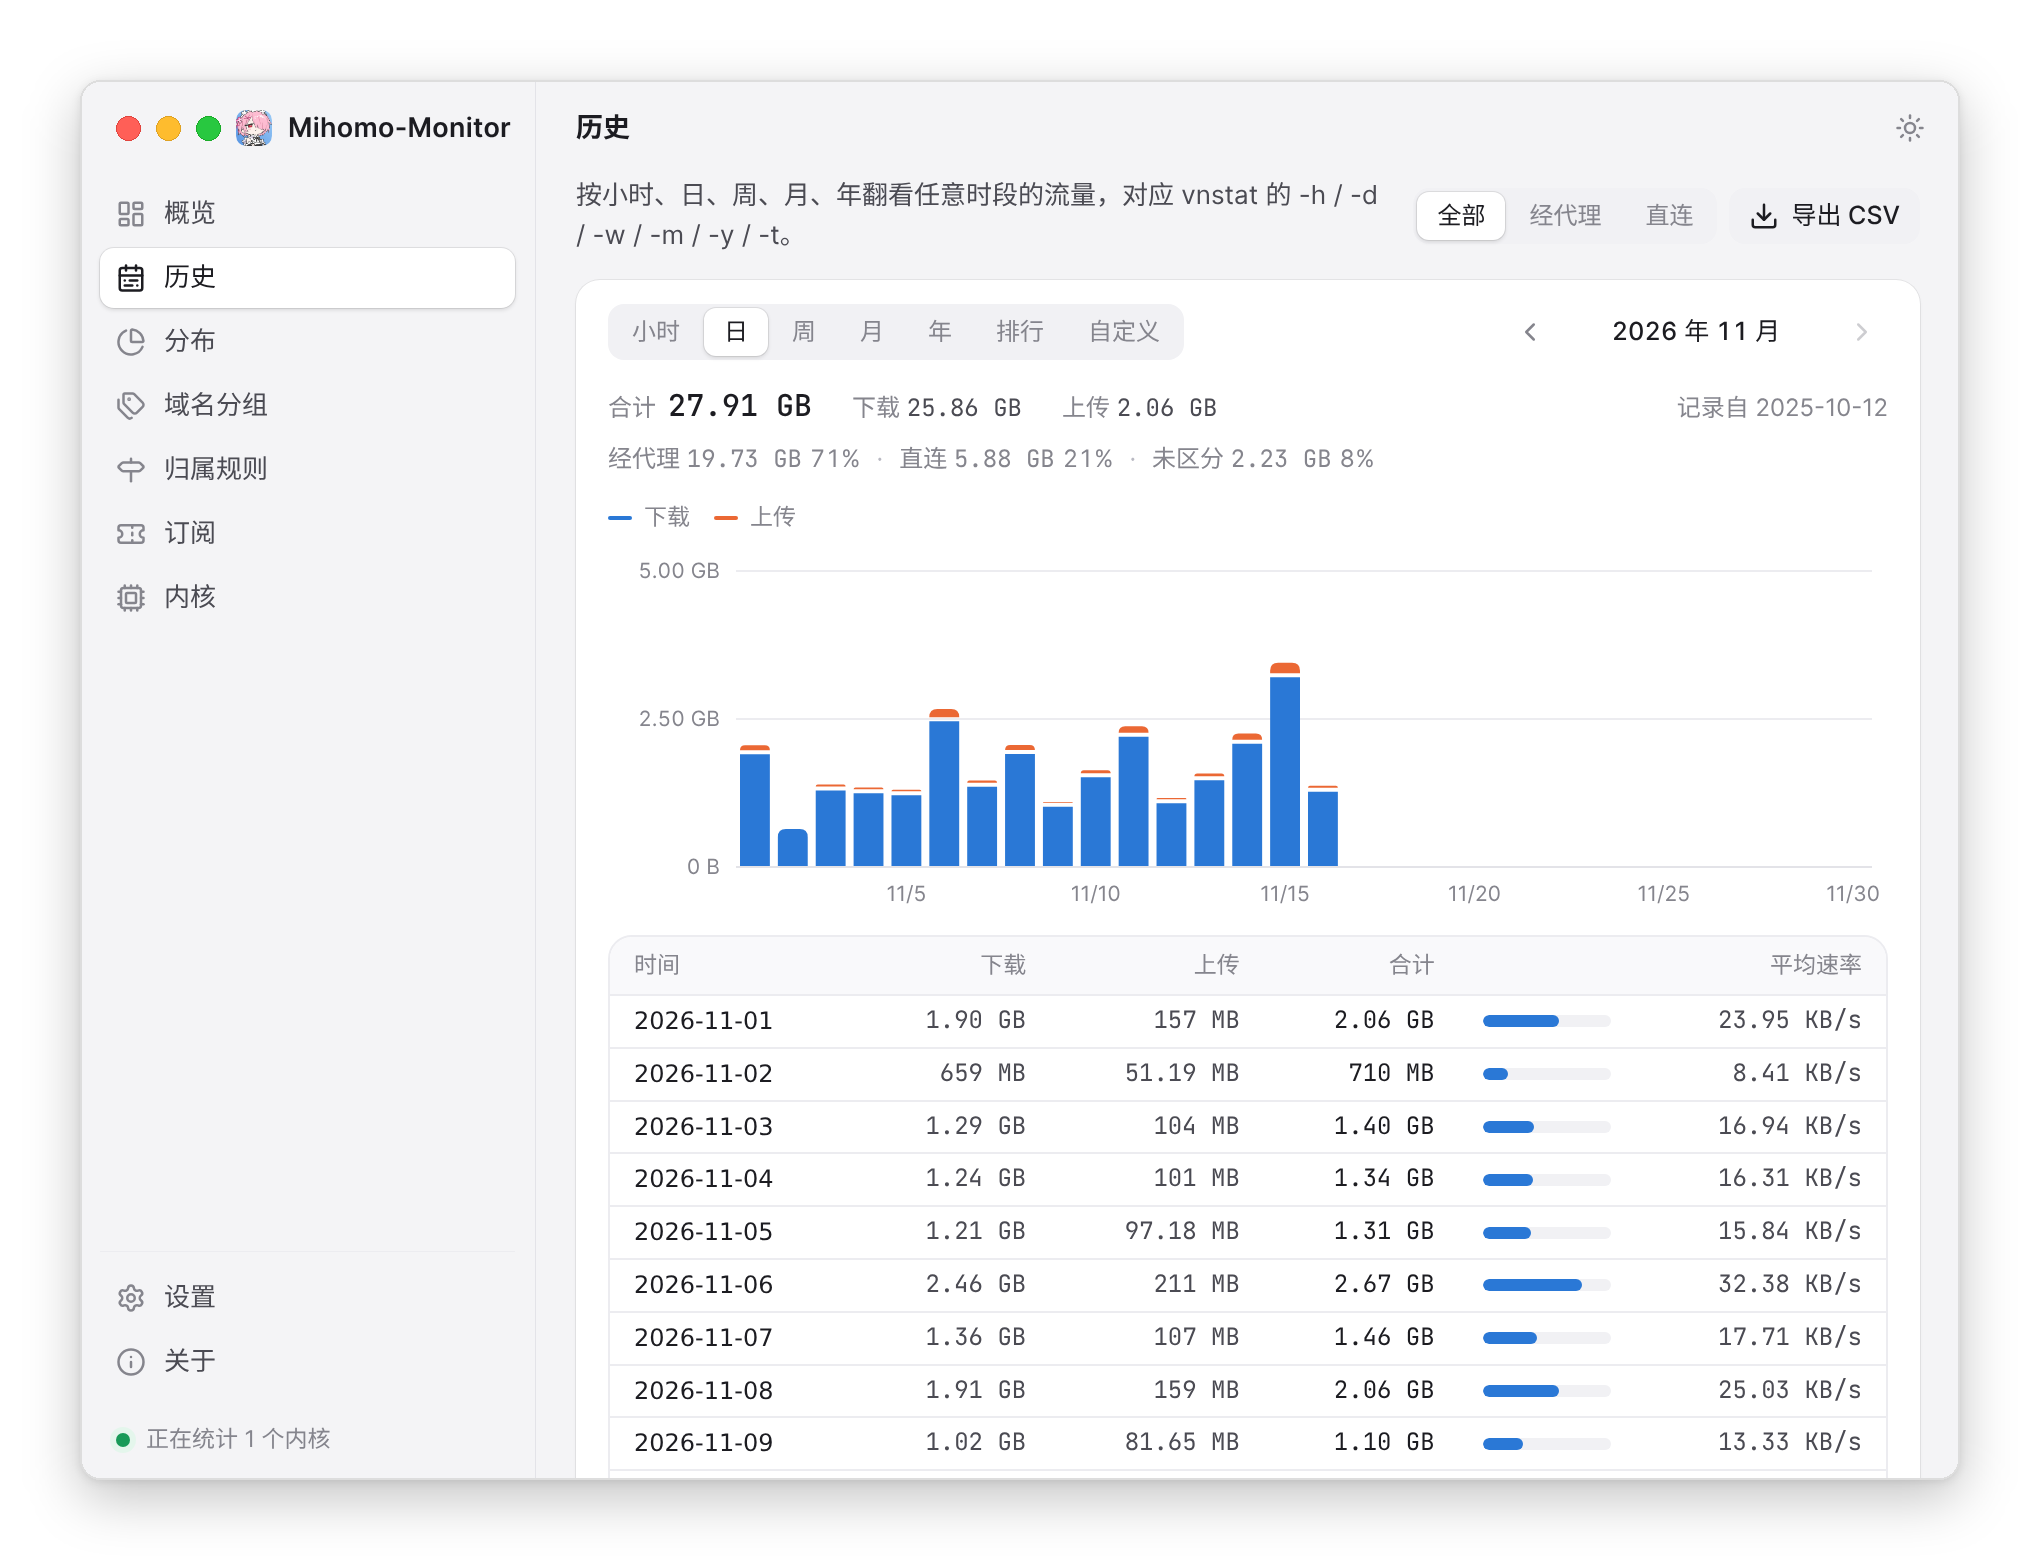
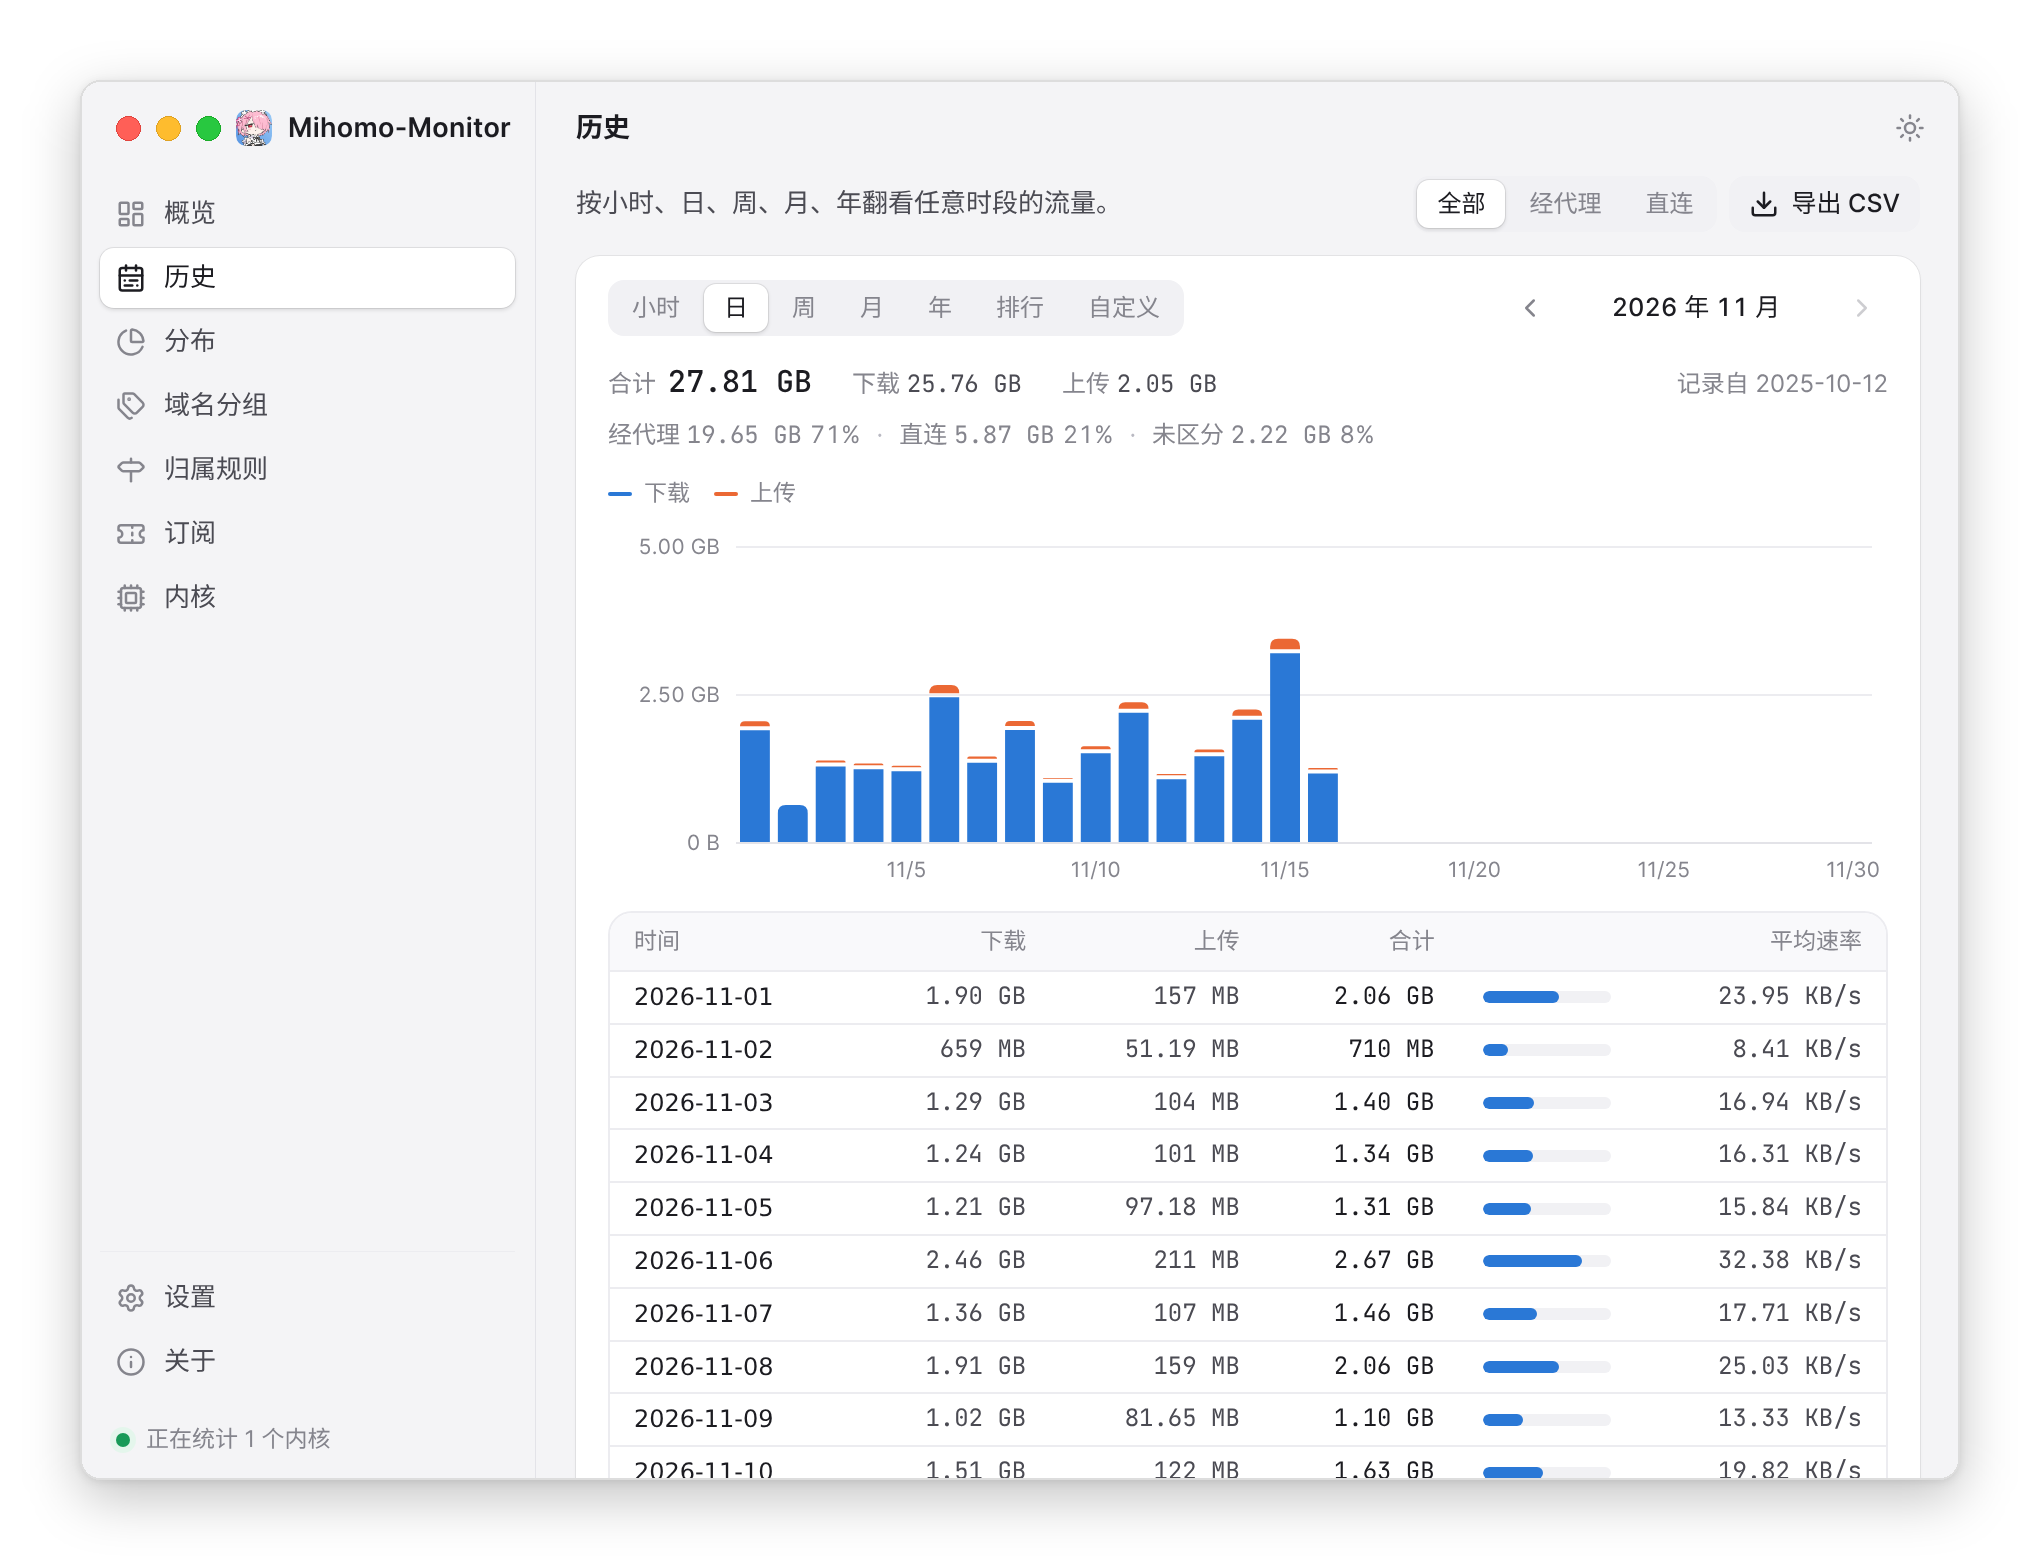
说明文字不再对照 vnstat 的命令参数

diff --git a/app/src/pages/HistoryPage.tsx b/app/src/pages/HistoryPage.tsx
@@ -165,7 +165,7 @@ export function HistoryPage({ sources }: { sources: Source[] | null }) {
     <Page>
       <PageHeader
         title="历史"
-        subtitle="按小时、日、周、月、年翻看任意时段的流量，对应 vnstat 的 -h / -d / -w / -m / -y / -t。"
+        subtitle="按小时、日、周、月、年翻看任意时段的流量。"
         actions={
           <>
             <Segmented label="流量范围" value={route} onChange={setRoute} options={ROUTE_FILTERS} />
